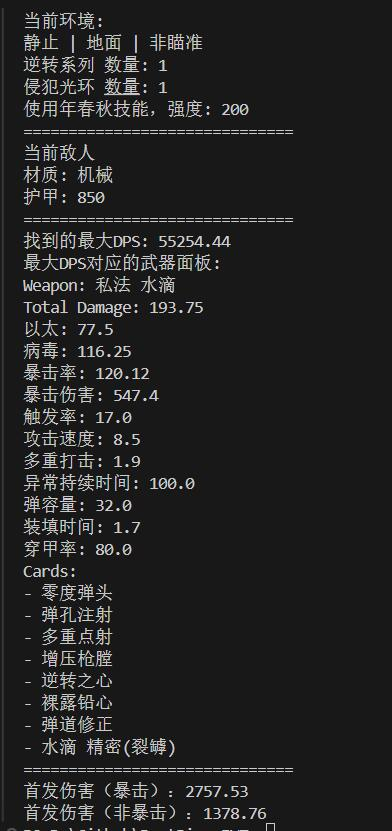
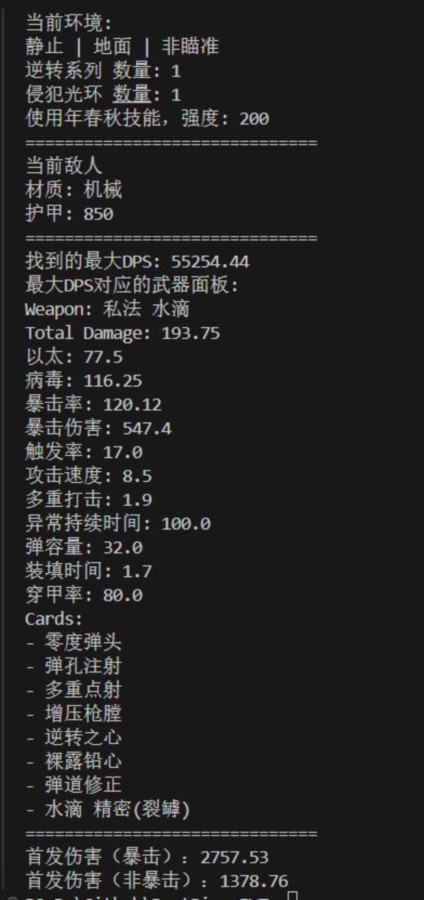
<Bug>修改图片大小

Changed region(s): [[0.0612, 0.0, 0.7347, 1.0], [0.3673, 0.5716, 0.4898, 0.6017], [0.6429, 0.9627, 0.7041, 1.0]]

diff --git a/Readme.md b/Readme.md
@@ -17,21 +17,21 @@
 
 假设此时我有一张紫卡，属性如下：
 
-<img src="/assets/目标紫卡.jpg" style="zoom:25%;" />
+![](/assets/目标紫卡.jpg)
 
 水滴的使用者是年春秋，年春秋的配卡如下：
 
-<img src="/assets/角色MOD.jpg" style="zoom: 33%;" />
+![](/assets/角色MOD.jpg)
 
 根据配卡调整环境设置，并且将目标紫卡设置到武器上之后，即可运行脚本。
 
 运行该脚本后计算出的最优DPS和最佳MOD搭配如下：
 
-<img src="assets/伤害Log.jpg" style="zoom:50%;" />
+![](assets/伤害Log.jpg)
 
 以下是按照该配卡在训练场的效果（射击时并未移动，角色滑铲是因为截图热键的缘故），此处的计算出的非暴击对应1级暴击、计算出的暴击对应2级暴击，较好地符合了验算结果。
 
-<img src="/assets/伤害实测.jpg" style="zoom:67%;" />
+![](/assets/伤害实测.jpg)
 
 ## TODO 列表
 - [✅] 直接伤害计算公式
